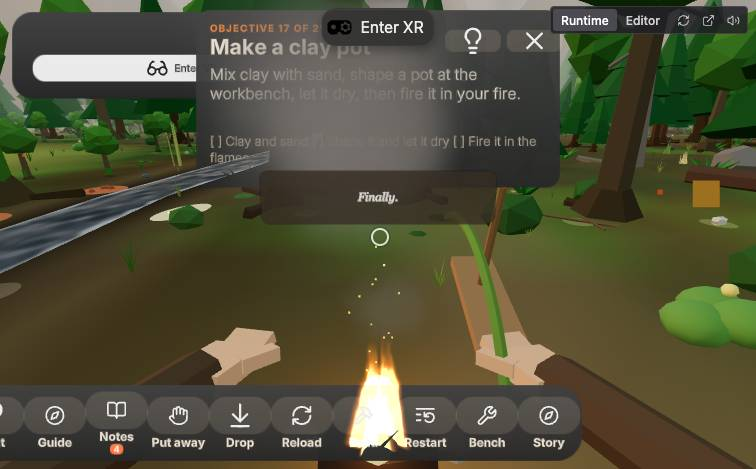
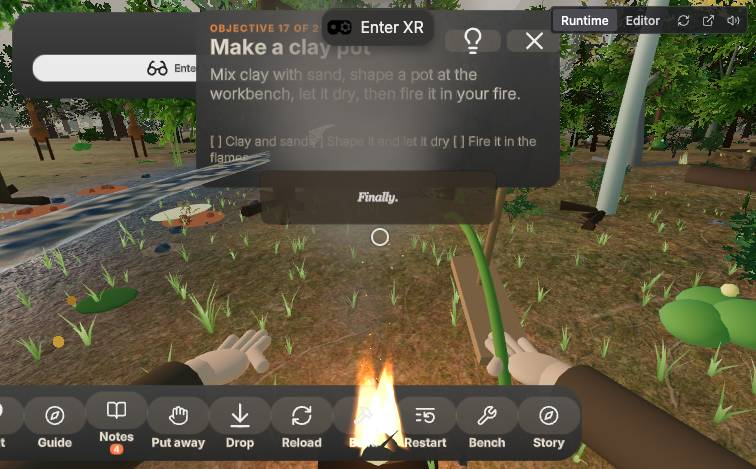
Docs: stage 6 follow-up status and perf, playtest results

diff --git a/docs/PROJECT_STATUS.md b/docs/PROJECT_STATUS.md
@@ -106,11 +106,11 @@ Per stage commit, clean screenshots in `docs/shots-revamp/<stage>-*.jpg`, number
 | 1 Bushes | Yes: EZ-Tree bush presets, LOD0-2 and billboards, instanced |
 | 2 Rocks | Yes: Poly Haven Rock Moss Set 01 boulders (3 LODs) and matching collectible stones (110 triangles, tinted; decor stays big and textured) |
 | 3 Ground | Yes: three Poly Haven textures blended by zone with normal and roughness, instanced grass tufts that fade out |
-| 4 Sky | Mostly: three.js physical Sky and Poly Haven photo clouds, tinted by time and faded at night. Not done: the scene's image-based light is still the gradient, not a PMREM of the physical sky |
-| 5 Stream | Mostly: dual scrolling normals, sky and cloud reflection, bed and depth tint, wet banks. Not done: foam rings round rocks |
-| 6 Everything else | Partial. Done: ferns, story and misc rocks, round soft particles, ACES tone mapping. **Not done:** mountains and horizon, logs/sticks/items in the hand, hands and arms, ruins/mast/Roadmap wall, built structures (workbench, fire pit, shelter, rack), fire/smoke/rain effects beyond round points, animals, moss cushions and grass clumps, saplings, track prints (look like black squares at a distance) |
+| 4 Sky | Yes: three.js physical Sky, Poly Haven photo clouds tinted by time and faded at night, and the scene's environment light is a PMREM of the same sky (rebuilt every 6 s) |
+| 5 Stream | Yes: dual scrolling normals, sky and cloud reflection, bed and depth tint, wet banks, foam rings round the twelve nearest stream rocks |
+| 6 Everything else | Done: ferns, story and misc rocks, round soft particles, ACES tone mapping, detailed mountains (ridged crags, treeline, snow), barked rounder logs, smooth item cylinders, rounded hands and sleeves, weathered ruins/mast base/Roadmap wall and split rock, weathered workbench slab, smooth animals with countershading, soft sapling, lighter oval footprint decals, no faceted grass clumps. **Not changed:** the leaning-shelter, rack, bed and fire-pit models beyond the global smooth shading and rounder cylinders, fire/smoke/rain (already soft shader sprites), moss cushions beyond more segments |
 
-Verified: typecheck, 679 unit tests, production build, emulator screenshots and perf samples at each stage. Not verified: a headset, chapters 1 to 3 replayed end to end in the emulator after the round (unit tests pass), texture memory on Quest (about 19 MB for the ground set).
+Verified: typecheck, 679 unit tests, production build, emulator screenshots and perf samples at each stage; `scripts/story-check.mjs` (Chapter 1 story: gather, workbench, fire, camp, no errors) and `scripts/tutorial-check.mjs` (tutorial enters and reports lesson state) pass in the emulator. `scripts/playtest.mjs` (the M1-era script) stops with a script error at the workbench step; it was not run on main for comparison. Not verified: Chapter 2 and 3 replayed end to end in the emulator (their unit tests pass), a headset, texture memory on Quest (about 19 MB for the ground set), and the triangle total against the Quest budget (see PERF_REPORT).
 
 ### Docs index
 

diff --git a/docs/PERF_REPORT.md b/docs/PERF_REPORT.md
@@ -192,3 +192,18 @@ Stage 6 (partial, see PROJECT_STATUS): the 700 spiky faceted ferns became archin
 shared fragment tweak); the renderer uses ACES filmic tone mapping at exposure 1.05. Fewer triangles than before the stage (the spiky ferns were more geometry
 than the cards), draw calls 209. Total over the whole round (stage 1 before to stage 6 after): draw calls 189 to 209, triangles 201,686 to 222,650, CPU
 4.58 to 4.68 ms in the IWER browser. Not measured on a Quest. No real-time shadows were added.
+
+### Stage 6 follow-up (leftovers), same method
+
+| Step | Draw calls | Triangles | CPU ms |
+|---|---|---|---|
+| 6 (ferns, particles, ACES) | 209 | 222,650 | 4.68 |
+| 6b sky environment light (PMREM), rock foam, soft sapling, no grass clumps | 210 | 203,366 | 4.77 |
+| 6c mountains, barked logs, hands | 210 | 277,004 | 4.87 |
+| 6d after trimming mountain tessellation (160 x 5 rows), log and animal tessellation | 210 | 240,764 | 5.56 (noisy) |
+
+The mountains are the largest single addition (about 9k triangles after trimming); the weathered ruins, rounded hands (about 4k) and smooth animals (about 6k) are the rest.
+The environment light is a 128 px PMREM rebuilt every 6 s (one small render) at environment intensity 0.04 to 0.16. The whole round, stage 1 before to 6d after:
+draw calls 189 to 210, triangles 201.7k to 240.8k, which is above the 240k per eye the original report treats as the ceiling for the dense forest view; it should be
+re-measured on a Quest before shipping and the first things to cut are the mountain tessellation and the 18 hand and animal spheres. Fire, smoke and rain were already
+soft shader sprites and were not changed.
